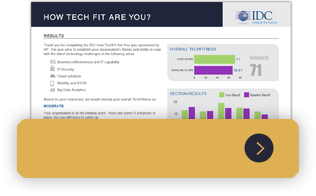
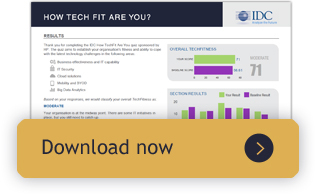
Fixed another set of issues

Changed region(s): [[0.1139, 0.7041, 0.5696, 0.7959]]

diff --git a/app/views/emails/download.blade.php b/app/views/emails/download.blade.php
@@ -6,8 +6,6 @@
 
 <meta http-equiv="Content-Type" content="text/html; charset=UTF-8" />
 <title>Your TechFitness report</title>
-	
-<link rel="stylesheet" href="{{asset('css/email/email.css')}}" />
 
 </head>
 <style>
@@ -86,7 +84,7 @@ ul li {
             <div class="content" style="padding:0px;max-width:600px;margin:0 auto;display:block;">
                 <table bgcolor="#174a85" style="width: 100%;margin:0; padding:0;">
                 <tr>
-                    <td align="right" style="margin:0; padding:0;"><h6 style="margin:0; padding:0;font-weight:900; font-size: 12px; color:#FFF; font-weight: normal; line-height: 30px; margin-bottom: 0; background: url({{ URL::asset('img/hp_email.png')}}) no-repeat 100% 50%; padding-right: 30px;">in association with</h6></td>
+                    <td align="right" style="margin:0; padding:0;"><h6 style="margin:0; padding:0; font-family: 'Avenir', Arial, 'Lucida Grande', sans-serif; line-height: 1.1;font-weight:900; font-size: 12px; color:#FFF; font-weight: normal; line-height: 30px; margin-bottom: 0; background: url(../../img/hp_email.png) no-repeat 100% 50%; padding-right: 30px;">in association with</h6></td>
                 </tr>
             </table>
             </div>
@@ -112,7 +110,7 @@ ul li {
 						
 						<!-- Callout Panel -->
 						<p class="callout" style="margin:15px auto; width: 316px;">
-							<a href="{{ URL::asset('quiz/download/'.$userid) }}" style="display: block;background: url({{ URL::asset('img/email_download.jpg')}});position: relative;font-size: 22px;font-family: arial;color: #242638;display: block;text-decoration: none;margin: 0;padding: 135px 0 0 41px;border: 0;overflow: visible;width: 275px;height: 60px;text-align: left;-webkit-border-radius: 9px;-moz-border-radius: 9px;border-radius: 9px;">Download now</a>
+							<a href="{{ URL::asset('quiz/download/'.$userid) }}" style="display: block;background: url({{ URL::asset('img/email_download.jpg')}});position: relative;font-size: 22px;font-family: arial;color: #242638;display: block;text-decoration: none;margin: 0;padding: 135px 0 0 41px;border: 0;overflow: visible;width: 275px;height: 60px;text-align: left;-webkit-border-radius: 9px;-moz-border-radius: 9px;border-radius: 9px; text-indent:-9999px; overflow:hidden">Download now</a>
 						</p><!-- /Callout Panel -->
 						
 						<!--h3>Title Ipsum <small>This is a note.</small></h3-->
@@ -136,7 +134,7 @@ ul li {
 												<p class="" style="margin:0; margin-bottom: 10px; font-weight: normal; font-size:14px; line-height:1.2; font-family: 'Avenir', Arial, 'Lucida Grande', sans-serif;padding:0; height: 55px;">
 													Is your printer putting sensitive data at risk? Top 10 dangers of staying on Windows XP 
 												</p>
-												<a href="http://h20435.www2.hp.com/t5/HP-BusinessReady/Is-your-printer-putting-sensitive-data-at-risk/ba-p/89690#.VI7r8FesV7c" class="btn" style="display: block;text-decoration: none;background: url({{asset('img/buttons.png')}});position: relative;font-size: 14px;font-family: 'Avenir', Arial, 'Lucida Grande';color: #242638;outline: 0 none;margin: 0;padding: 12px 0 0 6px;border: 0;overflow: visible;width: 112px !important;height: 31px !important;background-position: 0 840px;text-align: left;margin-bottom: 1em;">Click here</a>
+												<a href="http://h20435.www2.hp.com/t5/HP-BusinessReady/Is-your-printer-putting-sensitive-data-at-risk/ba-p/89690#.VI7r8FesV7c" class="btn" style="display: block;text-decoration: none;background: url({{asset('img/email_click.jpg')}});position: relative;font-size: 14px;font-family: 'Avenir', Arial, 'Lucida Grande';color: #242638;outline: 0 none;margin: 0;padding: 0px;border: 0;overflow: visible;width: 150px;height: 53px;text-align: left;margin-bottom: 1em; text-indent:-9999px;overflow:hidden">Click here</a>
 											</td>
 										</tr>
 									</table><!-- /column 1 -->	
@@ -149,13 +147,11 @@ ul li {
 												<p class="" style="margin:0; margin-bottom: 10px; font-weight: normal; font-size:14px; line-height:1.2; font-family: 'Avenir', Arial, 'Lucida Grande', sans-serif;padding:0; height: 55px;">
 													Enterprise cloud computing myths debunked
 												</p>
-												<a href="http://h20435.www2.hp.com/t5/HP-BusinessReady/Top-10-dangers-of-staying-on-Windows-XP/ba-p/92718#.VI7tFVesV7c" class="btn" style="display: block;text-decoration: none;background: url({{asset('img/buttons.png')}});position: relative;font-size: 14px;font-family: 'Avenir', Arial, 'Lucida Grande';color: #242638;outline: 0 none;margin: 0;padding: 12px 0 0 6px;border: 0;overflow: visible;width: 112px;height: 31px;background-position: 0 840px;text-align: left;margin-bottom: 1em;">Click here</a>
+												<a href="http://h20435.www2.hp.com/t5/HP-BusinessReady/Top-10-dangers-of-staying-on-Windows-XP/ba-p/92718#.VI7tFVesV7c" class="btn" style="display: block;text-decoration: none;background: url({{asset('img/email_click.jpg')}});position: relative;font-size: 14px;font-family: 'Avenir', Arial, 'Lucida Grande';color: #242638;outline: 0 none;margin: 0;padding: 0px;border: 0;overflow: visible;width: 150px;height: 53px;text-align: left;margin-bottom: 1em; text-indent:-9999px;overflow:hidden">Click here</a>
 											</td>
 										</tr>
 									</table><!-- /column 2 -->
-									
 									<span class="clear"></span>	
-									
 								</td>
 							</tr>
 							<tr>
@@ -170,7 +166,7 @@ ul li {
 													A guide to hot desking BYOD printing: the things to consider
 
 												</p>
-												<a href="http://h20435.www2.hp.com/t5/HP-BusinessReady/Enterprise-cloud-computing-myths-debunked/ba-p/91496#.VI7tc1esV7c" class="btn" style="display: block;text-decoration: none;background: url({{asset('img/buttons.png')}});position: relative;font-size: 14px;font-family: 'Avenir', Arial, 'Lucida Grande';color: #242638;outline: 0 none;margin: 0;padding: 12px 0 0 6px;border: 0;overflow: visible;width: 112px;height: 31px;background-position: 0 840px;text-align: left;margin-bottom: 1em;">Click here</a>
+												<a href="http://h20435.www2.hp.com/t5/HP-BusinessReady/Enterprise-cloud-computing-myths-debunked/ba-p/91496#.VI7tc1esV7c" class="btn" style="display: block;text-decoration: none;background: url({{asset('img/email_click.jpg')}});position: relative;font-size: 14px;font-family: 'Avenir', Arial, 'Lucida Grande';color: #242638;outline: 0 none;margin: 0;padding: 0px;border: 0;overflow: visible;width: 150px;height: 53px;text-align: left;margin-bottom: 1em; text-indent:-9999px;overflow:hidden">Click here</a>
 											</td>
 										</tr>
 									</table><!-- /column 1 -->	
@@ -183,7 +179,7 @@ ul li {
 												<p class="" style="margin:0; margin-bottom: 10px; font-weight: normal; font-size:14px; line-height:1.2; font-family: 'Avenir', Arial, 'Lucida Grande', sans-serif;padding:0; height: 55px;">
 													5 ways your small business could benefit from big data
 												</p>
-												<a href="http://h20435.www2.hp.com/t5/HP-BusinessReady/5-ways-your-small-business-can-benefit-from-big-data/ba-p/92118#.VI7uqVesV7c" class="btn" style="display: block;text-decoration: none;background: url({{asset('img/buttons.png')}});position: relative;font-size: 14px;font-family: 'Avenir', Arial, 'Lucida Grande';color: #242638;outline: 0 none;margin: 0;padding: 12px 0 0 6px;border: 0;overflow: visible;width: 112px;height: 31px;background-position: 0 840px;text-align: left;margin-bottom: 1em;">Click here</a>
+												<a href="http://h20435.www2.hp.com/t5/HP-BusinessReady/5-ways-your-small-business-can-benefit-from-big-data/ba-p/92118#.VI7uqVesV7c" class="btn" style="display: block;text-decoration: none;background: url({{asset('img/email_click.jpg')}});position: relative;font-size: 14px;font-family: 'Avenir', Arial, 'Lucida Grande';color: #242638;outline: 0 none;margin: 0;padding: 0px;border: 0;overflow: visible;width: 150px;height: 53px;text-align: left;margin-bottom: 1em; text-indent:-9999px;overflow:hidden">Click here</a>
 											</td>
 										</tr>
 									</table><!-- /column 2 -->
@@ -206,23 +202,10 @@ ul li {
 <!-- FOOTER -->
 <table class="footer-wrap" style="width: 100%;	clear:both!important;margin:0; padding:0; border-collapse:collapse;">
 	<tr>
-		<td></td>
-		<td class="container" style="margin:0; padding:0;">
-			
-				<!-- content -->
-				<div class="content">
-				<table>
-				<tr>
-					<td align="center" style="margin:0; padding:5px;">
-						
-                        	<a href="{{url('/email', array($userid))}}">View in Browser</a>
-					</td>
-				</tr>
-			</table>
-				</div><!-- /content -->
-				
-		</td>
-		<td></td>
+		<td align="center" style="margin:0; padding:10px;">
+            <p>This email is automatically generated, please do not reply.<br/></p>
+            <a href="{{url('/email', array($userid))}}" style="color:#024886;font-family: 'Avenir', Arial, 'Lucida Grande', sans-serif;">View in Browser</a><br/>
+        </td>
 	</tr>
 </table><!-- /FOOTER -->
 

diff --git a/app/views/question.blade.php b/app/views/question.blade.php
@@ -88,50 +88,53 @@ jQuery(window).on("beforeunload", function(event){
             var parent = $(this).parent("fieldset");
             var parentHeight = parent.css('height');
             var num = $('button.btn-q').length;
+			var that = this;
             if(num>0){
                 var start = 1;
+				//inject info
+				html = '<div class="repwrap">'+
+							'<div class="repmod">'+
+								'<h4>'+title+'</h4>'+
+								'<div class="rep-img">'+
+									'<img src="{{URL::to("/").'/'.$report['image']}}" alt="" width="80" height="80">'+
+								'</div>'+
+								'<div class="rep-text">'+
+									'{{addslashes($report['text'])}}'+
+								'</div>'+
+								'<div class="clearfix"></div>'+
+							'</div>'+
+							'<button class="button-small" type="submit" value="'+val+'" name="answer">Next</button>'+
+						'</div>';
+				$(html).hide().appendTo(parent);
+				
+				//hide next buttton
+				$('div.repwrap').find('button.button-small').hide();
+				
+				//move out of view
+				$('div.repwrap').css({
+						position : "absolute",
+						top : pos.top,
+						left: -90000
+				});
+				$('div.repwrap').show();
+				//set original height for later
+				var repheight = $('div.repmod').height();
+				var headheight = $('div.repmod').find('h4').height();
+				$(parent).css({height: repheight+70 });
+				//set heigh to size of title
+				$('div.repmod').height(headheight);
+				//hide again
+				//$('div.repwrap').hide();
+				//move bak into view
+				$('div.repwrap').css({
+						left: 0
+				});
+				
+				
                 jQuery.each($('button.btn-q'), function( i, item ) {
                     $(item).fadeOut('fast', function() {
                         start++;
-                        if(num == start){
-                            html = '<div class="repwrap">'+
-										'<div class="repmod">'+
-											'<h4>'+title+'</h4>'+
-											'<div class="rep-img">'+
-												'<img src="{{URL::to("/").'/'.$report['image']}}" alt="" width="80" height="80">'+
-											'</div>'+
-											'<div class="rep-text">'+
-												'{{addslashes($report['text'])}}'+
-											'</div>'+
-											'<div class="clearfix"></div>'+
-										'</div>'+
-										'<button class="button-small" type="submit" value="'+val+'" name="answer">Next</button>'+
-									'</div>';
-							$(html).hide().appendTo(parent);
-							
-							//hide next buttton
-							$('div.repwrap').find('button.button-small').hide();
-							
-							//move out of view
-							$('div.repwrap').css({
-									position : "absolute",
-									top : pos.top,
-									left: -90000
-							});
-							$('div.repwrap').show();
-							//set original height for later
-							var repheight = $('div.repmod').height();
-							var headheight = $('div.repmod').find('h4').height();
-							$(parent).css({height: repheight+70 });
-							//set heigh to size of title
-							$('div.repmod').height(headheight);
-							//hide again
-							$('div.repwrap').hide();
-							//move bak into view
-							$('div.repwrap').css({
-									left: 0
-							});
-								
+                        if(num == start){								
 							$('div.repwrap').fadeIn("fast",function(){
 								if(pos.top!=0){
 									$('div.repwrap').animate({
@@ -157,28 +160,35 @@ jQuery(window).on("beforeunload", function(event){
             e.preventDefault();
             var title = 'Cloud Services';
             var sibling = $(this).prev("fieldset");
-			var pos = $(sibling).position();
+			var pos = false;
             var parentHeight = sibling.css('height');
             var num = $('label.rel').length;
             var selected = 0;
             if(num>0){
                 $(sibling).find('input.chq').each(function( index ) {
-                    if($(this).is(':checked'))  selected ++;
+                    if($(this).is(':checked')){
+						selected ++;
+						pos = $(this).parents('label').position();
+					}
                 });
                 if(selected>0){
                     $('div.error').fadeOut('fast', function() {
                         this.remove();
                     });
                     var start = 0;
+					
+					
                     $('button.button-small').fadeOut('fast');
                     jQuery.each($('label.rel'), function( i, item ) {
                         $(item).fadeOut('fast', function() {
                             start++;
                             if(num == start && selected>0){
-                                html = 
+                                									
+								//inject new thing
+								html = 
 									'<div class="repwrap">'+
 										'<div class="repmod">'+
-											'<h4>'+title+'</h4>'+
+											'<h4 style="font-size: 13px;">'+title+'</h4>'+
 											'<div class="rep-img">'+
 												'<img src="{{URL::to("/").'/'.$report['image']}}" alt="" width="80" height="80">'+
 											'</div>'+
@@ -187,49 +197,11 @@ jQuery(window).on("beforeunload", function(event){
 											'</div>'+
 											'<div class="clearfix"></div>'+
 										'</div>'+
-                                    	'<button class="button-small" type="submit">Next</button>'+
+										'<button class="button-small" type="submit">Next</button>'+
 									'</div>';
 								
-								$(html).hide().appendTo(sibling);
+								$(html).appendTo(sibling);
 							
-								//hide next buttton
-								$('div.repwrap').find('button.button-small').hide();
-								
-								//move out of view
-								$('div.repwrap').css({
-										position : "absolute",
-										top : pos.top,
-										left: -90000
-								});
-								$('div.repwrap').show();
-								//set original height for later
-								var repheight = $('div.repmod').height();
-								var headheight = $('div.repmod').find('h4').height();
-								$(sibling).css({height: repheight+70 });
-								//set heigh to size of title
-								$('div.repmod').height(headheight);
-								//hide again
-								$('div.repwrap').hide();
-								//move bak into view
-								$('div.repwrap').css({
-										left: 0
-								});
-									
-								$('div.repwrap').fadeIn("fast",function(){
-									if(pos.top!=0){
-										$('div.repwrap').animate({
-											top: 0
-										}, 'slow', function() {
-											$('div.repmod').animate({ height: repheight },400,function(){
-												$('div.repwrap').find('button.button-small').fadeIn("fast");
-											});
-										});
-									}else{
-										$('div.repmod').animate({ height: repheight },400,function(){
-											$('div.repwrap').find('button.button-small').fadeIn("fast");
-										});
-									}
-								});
                             }
                         });
                     });
